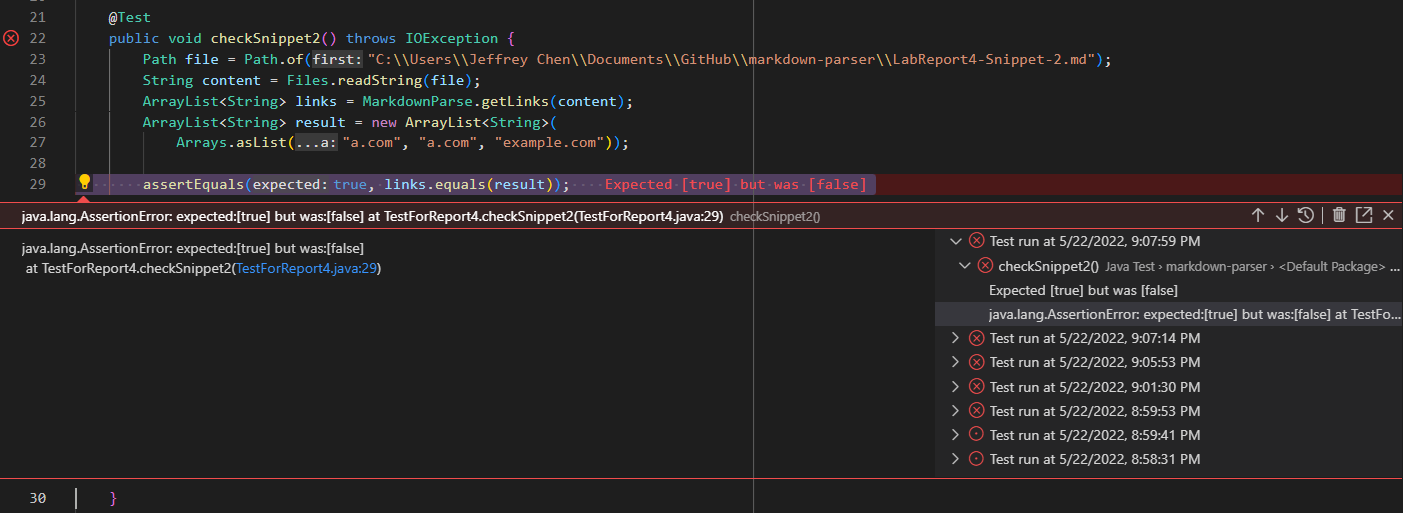
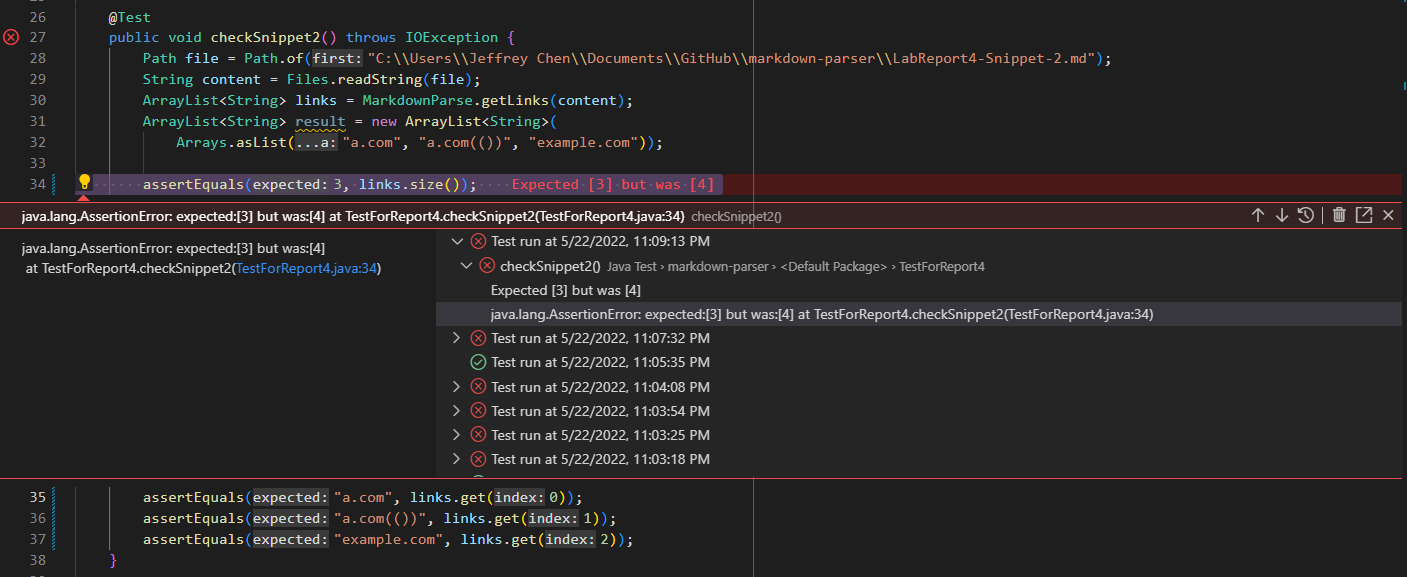
Updates for Report 4

diff --git a/lab-report-4-week-8.md b/lab-report-4-week-8.md
@@ -52,7 +52,7 @@ $ git clone git@github.com:brandoluu/markdown-parser.git
 ![Image](Images\Lab-Report-4\1.png)
 
 ```
-[google.com, google.com, ucsd.edu]
+[`google.com, google.com, ucsd.edu]
 ```
 
 * Test Code in MarkdownParseTest.java
@@ -65,13 +65,16 @@ $ git clone git@github.com:brandoluu/markdown-parser.git
         String content = Files.readString(file);
         ArrayList<String> links = MarkdownParse.getLinks(content);
         ArrayList<String> result = new ArrayList<String>(
-            Arrays.asList("google.com", "google.com", "ucsd.edu"));
+            Arrays.asList("`google.com", "google.com", "ucsd.edu"));
 
-        assertEquals(true, links.equals(result));
+        assertEquals(3, links.size());
+        assertEquals("`google.com", links.get(0));
+        assertEquals("google.com", links.get(1));
+        assertEquals("ucsd.edu", links.get(2));
     }
 
 // For reviewed repo's implementation
-    @Test
+@Test
     public void checkReviewedSnippet1() throws IOException {
         Path file = Path.of("LabReport4-Snippet-1.md");
         String content = Files.readString(file);
@@ -79,9 +82,12 @@ $ git clone git@github.com:brandoluu/markdown-parser.git
         // Call getLinks() of the reviewed repo's MarkdownParse file
         ArrayList<String> links = reviewedMarkdownParse.getLinks(content);
         ArrayList<String> result = new ArrayList<String>(
-            Arrays.asList("google.com", "google.com", "ucsd.edu"));
+            Arrays.asList("`google.com", "google.com", "ucsd.edu"));
 
-        assertEquals(true, links.equals(result));
+        assertEquals(3, links.size());
+        assertEquals("`google.com", links.get(0));
+        assertEquals("google.com", links.get(1));
+        assertEquals("ucsd.edu", links.get(2));
     }
 ```
 
@@ -97,7 +103,15 @@ $ git clone git@github.com:brandoluu/markdown-parser.git
 
 * Discussion
 
-#[Discussion here]
+In this case, a small code change can make my program work for the existence of backticks:
+
+1) When my code generates a substring between a pair of parentheses, it would check if there is a "`" existing between currentIndex and openBracket. If so, skip this substring and move on to another loop.
+
+2) In normal situation, after updating currentIndex and before running next loop, the code would check if there is a "`" existing between currentIndex and next openBracket. If so, update currentIndex to the next index of the backtick.
+
+![Image](Images\Lab-Report-4\fix1.png)
+
+![Image](Images\Lab-Report-4\pass1.png)
 
 
 ## Snippet 2
@@ -119,7 +133,7 @@ $ git clone git@github.com:brandoluu/markdown-parser.git
 ![Image](Images\Lab-Report-4\2.png)
 
 ```
-[a.com, a.com, example.com]
+[a.com, a.com(()), example.com]
 ```
 
 * Test Code in MarkdownParseTest.java
@@ -132,9 +146,12 @@ $ git clone git@github.com:brandoluu/markdown-parser.git
         String content = Files.readString(file);
         ArrayList<String> links = MarkdownParse.getLinks(content);
         ArrayList<String> result = new ArrayList<String>(
-            Arrays.asList("a.com", "a.com", "example.com"));
+            Arrays.asList("a.com", "a.com(())", "example.com"));
 
-        assertEquals(true, links.equals(result));
+        assertEquals(3, links.size());
+        assertEquals("a.com", links.get(0));
+        assertEquals("a.com(())", links.get(1));
+        assertEquals("example.com", links.get(2));
     }
 
 // For reviewed repo's implementation
@@ -146,9 +163,12 @@ $ git clone git@github.com:brandoluu/markdown-parser.git
         // Call getLinks() of the reviewed repo's MarkdownParse file
         ArrayList<String> links = reviewedMarkdownParse.getLinks(content);
         ArrayList<String> result = new ArrayList<String>(
-            Arrays.asList("a.com", "a.com", "example.com"));
+            Arrays.asList("a.com", "a.com(())", "example.com"));
 
-        assertEquals(true, links.equals(result));
+        assertEquals(3, links.size());
+        assertEquals("a.com", links.get(0));
+        assertEquals("a.com(())", links.get(1));
+        assertEquals("example.com", links.get(2));
     }
 ```
 
@@ -164,7 +184,7 @@ $ git clone git@github.com:brandoluu/markdown-parser.git
 
 * Discussion
 
-#[Discussion here]
+For this case, I don't think a small code change can fix the bugs with nested parentheses, brackets, and escaped brackets in my program. One of the reasons is that I have to use an if statement to check if there is a pair of parentheses before next open bracket, which takes several lines of code. Furthermore, because of the existence of nested parentheses, I need to employ multiple lines of code to deal with this situation. Thus, a more involved change would be needed to fix these bugs.
 
 
 ## Snippet 3
@@ -206,6 +226,8 @@ And then there's more text
 
 ![Image](Images\Lab-Report-4\3.png)
 
+In this case, although those URLs were printed out by the CommonMark, they were not counted as links under the multiple-line situation. Thus, the expected output is an empty list.
+
 ```
 []
 ```
@@ -221,7 +243,7 @@ And then there's more text
         ArrayList<String> links = MarkdownParse.getLinks(content);
         ArrayList<String> result = new ArrayList<String>(Arrays.asList());
 
-        assertEquals(true, links.equals(result));
+        assertEquals(0, links.size());
     }
 
 // For reviewed repo's implementation
@@ -234,7 +256,7 @@ And then there's more text
         ArrayList<String> links = reviewedMarkdownParse.getLinks(content);
         ArrayList<String> result = new ArrayList<String>(Arrays.asList());
 
-        assertEquals(true, links.equals(result));
+        assertEquals(0, links.size());
     }
 ```
 
@@ -250,13 +272,12 @@ And then there's more text
 
 * Discussion
 
-#[Discussion here]
+For this situation, a small code change cannot fix this bug with separated parentheses and brackets in multiple lines. The error shown in the above output can be fixed with two lines of code in which an if statement is used to check if there is a potential link in the remaining substring. However, since the CommonMark does not accept those URLs within separated parentheses while my program counts the content within () as a valid link, an involved change is needed to deal with the separated parentheses and brackets and exclude the URLs within them, which would exceed the number of 10 lines of code change.
 
 
 # Conclusion
 
-Today, we covered a main theme that testing and debugging our Markdown Parse 
-program via JUnit tests and code snippets that provide multiple situations:
+In this report, we covered a main theme that testing and debugging our Markdown Parse program via JUnit tests and code snippets that provide multiple situations:
 
 1) Inline Code with Backticks
 
@@ -264,7 +285,7 @@ program via JUnit tests and code snippets that provide multiple situations:
 
 3) Newlines Existing in Brackets and Parentheses
 
-Perfection can hardly be reached in one time. When practicing continuous integration, we will be able to keep improving our programs to make it suit increasing situations by testing and debugging. Therefore, as our codes "grow up", so do our programming
+Perfection can hardly be reached in one time. When practicing continuous integration, we will be able to keep improving our programs to make it suit more situations by testing and debugging. Therefore, as our codes "grow up", so do our programming
 skills!
 
 See you next time!
